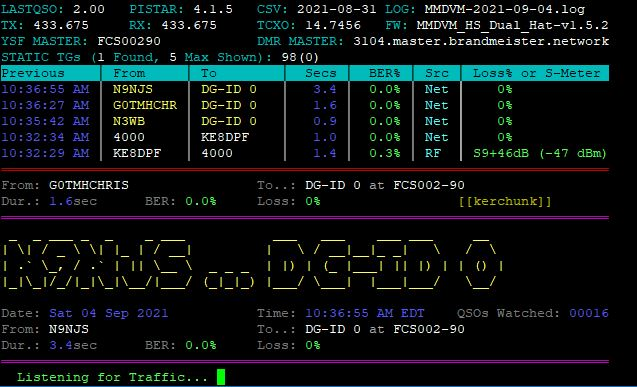
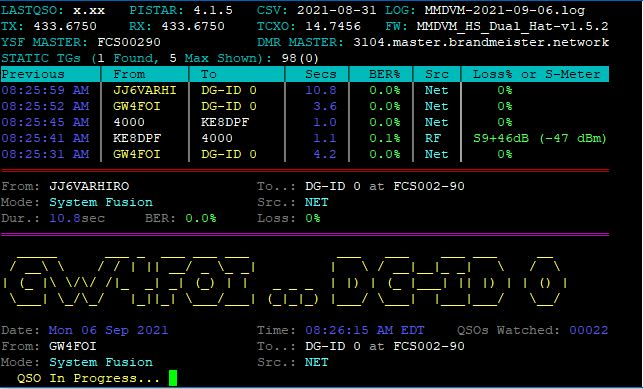
screenshot

Changed region(s): [[0.0, 0.0, 1.0, 1.0], [0.8352, 0.6512, 0.865, 0.6822]]

diff --git a/CHANGE_LOG.md b/CHANGE_LOG.md
@@ -1,9 +1,26 @@
 ```
+CHANGES: V2.01
+ 1. Added a new "-m|--mono" commandline option, to
+    supress all color control codes when using a
+    monochrome display or terminal.
+ 2. Added "Mode" and "Src" fields to the YSF QSOs.
+ 3. Tweaks to the "-t" display area.
+ 4. YSF callsigns would sometimes skew log parsing
+    when the callsign was in the form "KE8DPF KEN",
+    where people would add space-separated text
+    (such as their first name) to their radio's
+    transmitted callsign.  Such extra data is now
+    filtered out.
+ 5. Increased decimal precision from 3 to 4 places,
+    in the display of TX and RX frequencies, in the
+    "-t" display area.
+ 6. Addd "DMR" and "YSF" to the title screen.
+
 CHANGES: V2.00
  1. The script has been renamed, to PISTAR-LASTQSO,
     as it is no longer DMR only.
  2. The script now supports the following modes:
-    DMR. YSF, DMR2YSF, and YSF2DMR.  In addition
+    DMR, YSF, DMR2YSF, and YSF2DMR.  In addition
     to new routines, several existing ones were
     modified to accomodate the additional modes.
  3. Removed the "Type" and "ESS" fields from the
@@ -14,6 +31,8 @@ CHANGES: V2.00
     commandline.  (Broke, when adding the forcing
     of a font for figlet, on the commandline.)
  5. A few minor cleanups suggested by shellcheck.
+
+** PISTAR-LASTDMR ENDS - PISTAR-LASTQSO BEGINS **
 
 CHANGES: V1.39
  1. Tighten up the leading with figlet's "big" and
